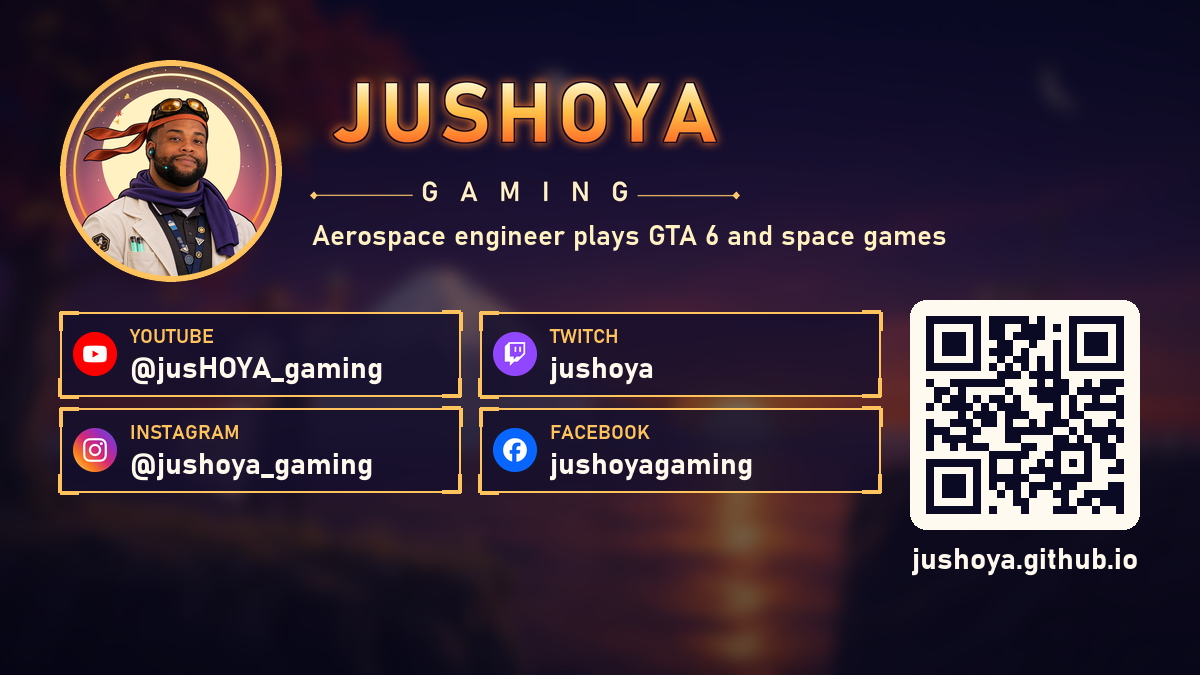
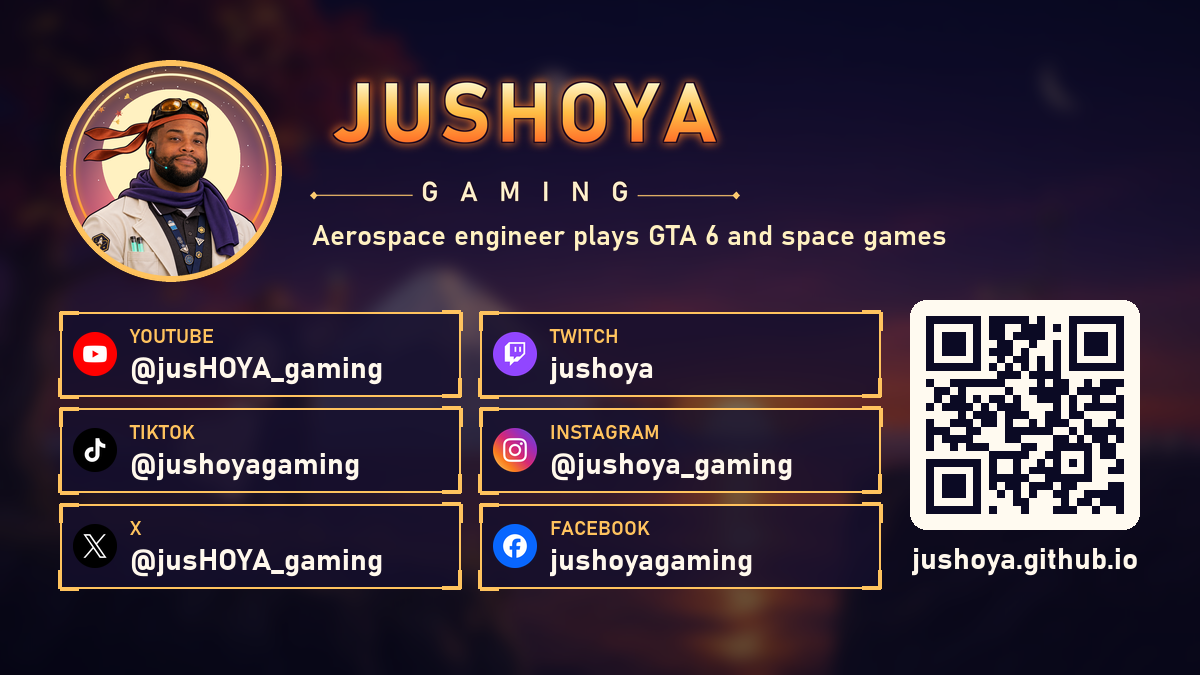
Update link page

diff --git a/index.html b/index.html
@@ -43,7 +43,9 @@ footer{margin-top:34px;font-size:13px;color:var(--muted)}footer a{color:var(--mu
 <a class="btn" href="https://www.youtube.com/playlist?list=PLBUeeotoxnyM" rel="me noopener"><span class="txt"><span class="lab">GTA 6 Playthrough</span><span class="sub">Every episode in order</span></span><span class="arrow" aria-hidden="true">›</span></a>
 <h2>Follow everywhere</h2>
 <a class="btn" href="https://www.twitch.tv/jushoya" rel="me noopener"><span class="ic" style="background:#9146FF"><svg aria-hidden="true" xmlns="http://www.w3.org/2000/svg" viewBox="0 0 24 24"><path fill="currentColor" d="M11.571 4.714h1.715v5.143H11.57zm4.715 0H18v5.143h-1.714zM6 0L1.714 4.286v15.428h5.143V24l4.286-4.286h3.428L22.286 12V0zm14.571 11.143l-3.428 3.428h-3.429l-3 3v-3H6.857V1.714h13.714Z"/></svg></span><span class="txt"><span class="lab">Twitch</span><span class="sub">jushoya · Watch live</span></span><span class="arrow" aria-hidden="true">›</span></a>
+<a class="btn" href="https://www.tiktok.com/@jushoyagaming" rel="me noopener"><span class="ic" style="background:#000000"><svg aria-hidden="true" xmlns="http://www.w3.org/2000/svg" viewBox="0 0 24 24"><path fill="currentColor" d="M12.525.02c1.31-.02 2.61-.01 3.91-.02.08 1.53.63 3.09 1.75 4.17 1.12 1.11 2.7 1.62 4.24 1.79v4.03c-1.44-.05-2.89-.35-4.2-.97-.57-.26-1.1-.59-1.62-.93-.01 2.92.01 5.84-.02 8.75-.08 1.4-.54 2.79-1.35 3.94-1.31 1.92-3.58 3.17-5.91 3.21-1.43.08-2.86-.31-4.08-1.03-2.02-1.19-3.44-3.37-3.65-5.71-.02-.5-.03-1-.01-1.49.18-1.9 1.12-3.72 2.58-4.96 1.66-1.44 3.98-2.13 6.15-1.72.02 1.48-.04 2.96-.04 4.44-.99-.32-2.15-.23-3.02.37-.63.41-1.11 1.04-1.36 1.75-.21.51-.15 1.07-.14 1.61.24 1.64 1.82 3.02 3.5 2.87 1.12-.01 2.19-.66 2.77-1.61.19-.33.4-.67.41-1.06.1-1.79.06-3.57.07-5.36.01-4.03-.01-8.05.02-12.07z"/></svg></span><span class="txt"><span class="lab">TikTok</span><span class="sub">@jushoyagaming · Daily clips</span></span><span class="arrow" aria-hidden="true">›</span></a>
 <a class="btn" href="https://www.instagram.com/jushoya_gaming" rel="me noopener"><span class="ic" style="background:linear-gradient(45deg,#feda75,#fa7e1e 30%,#d62976 55%,#962fbf 78%,#4f5bd5)"><svg aria-hidden="true" xmlns="http://www.w3.org/2000/svg" viewBox="0 0 24 24"><path fill="currentColor" d="M7.0301.084c-1.2768.0602-2.1487.264-2.911.5634-.7888.3075-1.4575.72-2.1228 1.3877-.6652.6677-1.075 1.3368-1.3802 2.127-.2954.7638-.4956 1.6365-.552 2.914-.0564 1.2775-.0689 1.6882-.0626 4.947.0062 3.2586.0206 3.6671.0825 4.9473.061 1.2765.264 2.1482.5635 2.9107.308.7889.72 1.4573 1.388 2.1228.6679.6655 1.3365 1.0743 2.1285 1.38.7632.295 1.6361.4961 2.9134.552 1.2773.056 1.6884.069 4.9462.0627 3.2578-.0062 3.668-.0207 4.9478-.0814 1.28-.0607 2.147-.2652 2.9098-.5633.7889-.3086 1.4578-.72 2.1228-1.3881.665-.6682 1.0745-1.3378 1.3795-2.1284.2957-.7632.4966-1.636.552-2.9124.056-1.2809.0692-1.6898.063-4.948-.0063-3.2583-.021-3.6668-.0817-4.9465-.0607-1.2797-.264-2.1487-.5633-2.9117-.3084-.7889-.72-1.4568-1.3876-2.1228C21.2982 1.33 20.628.9208 19.8378.6165 19.074.321 18.2017.1197 16.9244.0645 15.6471.0093 15.236-.005 11.977.0014 8.718.0076 8.31.0215 7.0301.0839m.1402 21.6932c-1.17-.0509-1.8053-.2453-2.2287-.408-.5606-.216-.96-.4771-1.3819-.895-.422-.4178-.6811-.8186-.9-1.378-.1644-.4234-.3624-1.058-.4171-2.228-.0595-1.2645-.072-1.6442-.079-4.848-.007-3.2037.0053-3.583.0607-4.848.05-1.169.2456-1.805.408-2.2282.216-.5613.4762-.96.895-1.3816.4188-.4217.8184-.6814 1.3783-.9003.423-.1651 1.0575-.3614 2.227-.4171 1.2655-.06 1.6447-.072 4.848-.079 3.2033-.007 3.5835.005 4.8495.0608 1.169.0508 1.8053.2445 2.228.408.5608.216.96.4754 1.3816.895.4217.4194.6816.8176.9005 1.3787.1653.4217.3617 1.056.4169 2.2263.0602 1.2655.0739 1.645.0796 4.848.0058 3.203-.0055 3.5834-.061 4.848-.051 1.17-.245 1.8055-.408 2.2294-.216.5604-.4763.96-.8954 1.3814-.419.4215-.8181.6811-1.3783.9-.4224.1649-1.0577.3617-2.2262.4174-1.2656.0595-1.6448.072-4.8493.079-3.2045.007-3.5825-.006-4.848-.0608M16.953 5.5864A1.44 1.44 0 1 0 18.39 4.144a1.44 1.44 0 0 0-1.437 1.4424M5.8385 12.012c.0067 3.4032 2.7706 6.1557 6.173 6.1493 3.4026-.0065 6.157-2.7701 6.1506-6.1733-.0065-3.4032-2.771-6.1565-6.174-6.1498-3.403.0067-6.156 2.771-6.1496 6.1738M8 12.0077a4 4 0 1 1 4.008 3.9921A3.9996 3.9996 0 0 1 8 12.0077"/></svg></span><span class="txt"><span class="lab">Instagram</span><span class="sub">@jushoya_gaming · Reels</span></span><span class="arrow" aria-hidden="true">›</span></a>
+<a class="btn" href="https://x.com/jusHOYA_gaming" rel="me noopener"><span class="ic" style="background:#000000"><svg aria-hidden="true" xmlns="http://www.w3.org/2000/svg" viewBox="0 0 24 24"><path fill="currentColor" d="M14.234 10.162 22.977 0h-2.072l-7.591 8.824L7.251 0H.258l9.168 13.343L.258 24H2.33l8.016-9.318L16.749 24h6.993zm-2.837 3.299-.929-1.329L3.076 1.56h3.182l5.965 8.532.929 1.329 7.754 11.09h-3.182z"/></svg></span><span class="txt"><span class="lab">X</span><span class="sub">@jusHOYA_gaming · Clips + updates</span></span><span class="arrow" aria-hidden="true">›</span></a>
 <a class="btn" href="https://www.facebook.com/jushoyagaming" rel="me noopener"><span class="ic" style="background:#0866FF"><svg aria-hidden="true" xmlns="http://www.w3.org/2000/svg" viewBox="0 0 24 24"><path fill="currentColor" d="M9.101 23.691v-7.98H6.627v-3.667h2.474v-1.58c0-4.085 1.848-5.978 5.858-5.978.401 0 .955.042 1.468.103a8.68 8.68 0 0 1 1.141.195v3.325a8.623 8.623 0 0 0-.653-.036 26.805 26.805 0 0 0-.733-.009c-.707 0-1.259.096-1.675.309a1.686 1.686 0 0 0-.679.622c-.258.42-.374.995-.374 1.752v1.297h3.919l-.386 2.103-.287 1.564h-3.246v8.245C19.396 23.238 24 18.179 24 12.044c0-6.627-5.373-12-12-12s-12 5.373-12 12c0 5.628 3.874 10.35 9.101 11.647Z"/></svg></span><span class="txt"><span class="lab">Facebook</span><span class="sub">jushoyagaming · Reels</span></span><span class="arrow" aria-hidden="true">›</span></a>
 <footer>© jusHOYA Gaming · <a href="privacy.html">Privacy</a> · <a href="terms.html">Terms</a></footer>
 </main></body></html>
